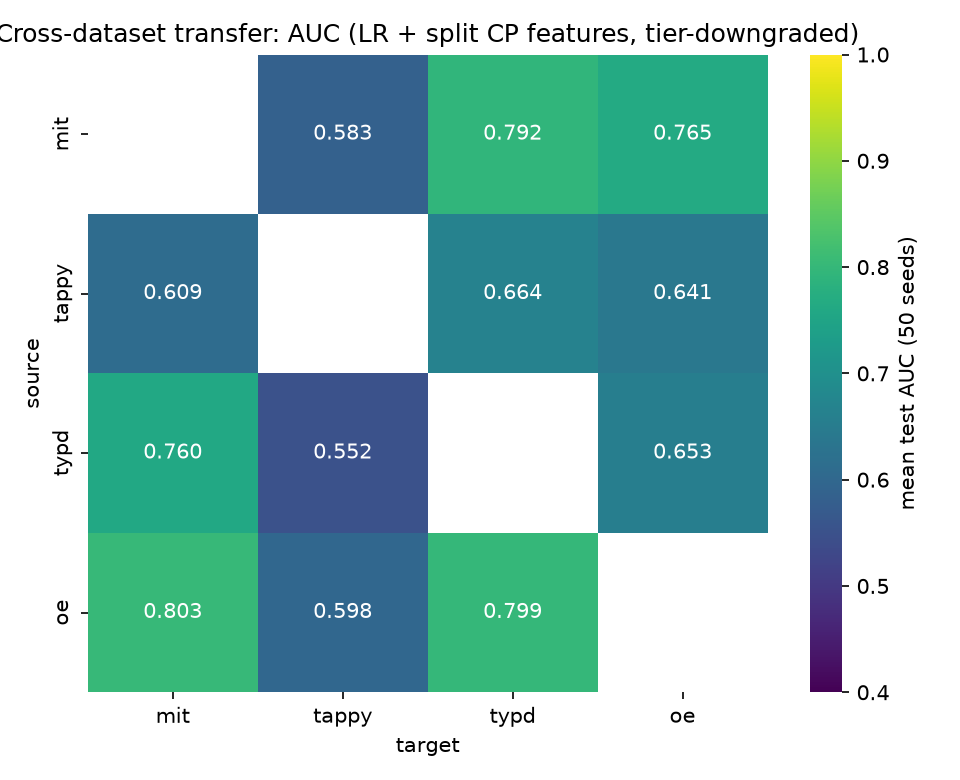
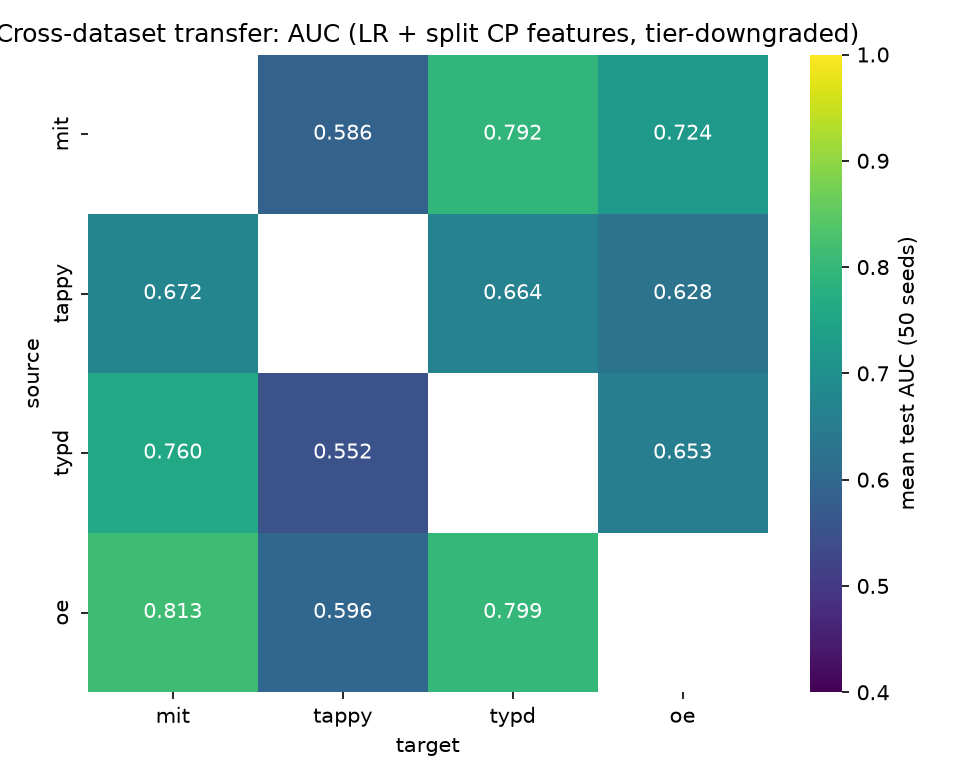
feat: L2/L3 rebuild on S1-S6 final pool (FEATURE-DEF-2) + mapping v1.0.1 keysym aliases + L3 both-hands fix; matrix L2/L3 directions updated, tappy2mit primary updated (0.5976, verdict unchanged), all registrations synced (18/18 tests)

diff --git a/src/features/build_features.py b/src/features/build_features.py
@@ -1,7 +1,7 @@
 #!/usr/bin/env python
 """build_features.py — L2/L3 手别条件特征构建器（TODO-4.1 前置，FEATURE-DEF-1）
 
-依据：configs/key_hand_mapping.yaml v1.0.0（已冻结）+ configs/feature_tiers.yaml
+依据：configs/key_hand_mapping.yaml v1.0.1（已冻结）+ configs/feature_tiers.yaml
 FEATURE-DEF-1（结果产出前登记的列定义）。
 
 产出：data/processed/subjects_l2l3.csv —— subject_id 主键的增量特征表，仅含
@@ -23,12 +23,14 @@ sys.path.insert(0, str(Path(__file__).resolve().parents[1]))
 
 PROCESSED = Path("data/processed")
 INTERIM = Path("data/interim")
-EVENTS = {"mit": "mit_digraph.parquet", "oe": "oe_events.parquet"}
+# 事件基（FEATURE-DEF-2，2026-09-26 用户批准）：S1-S6 清洗终池（build_tables 导出），
+# 与 L1 及 tappy L2（subjects.csv 内置）同事件基——修复复发猎杀 B/MEDIUM-2 的口径缺口
+EVENTS = {"mit": "final_digraphs.parquet", "oe": "final_digraphs.parquet"}
 
 
-def load_mapping() -> tuple[dict[str, str], set[str], dict[str, str]]:
+def load_mapping() -> tuple[dict[str, str], set[str], dict[str, str], dict[str, str]]:
     cfg = yaml.safe_load((Path(__file__).resolve().parents[2] / "configs" / "key_hand_mapping.yaml").read_text(encoding="utf-8"))
-    assert cfg["version"] == "1.0.0", "映射表版本与冻结版不符"
+    assert cfg["version"] == "1.0.1", "映射表版本与冻结版不符"
     hand: dict[str, str] = {}
     for h, fingers in cfg["hand_zones"].items():
         for _finger, keys in fingers.items():
@@ -36,16 +38,20 @@ def load_mapping() -> tuple[dict[str, str], set[str], dict[str, str]]:
                 hand[k.lower()] = h
     unassigned = {u.lower() for u in cfg["unassigned"]}
     shifted = {k.lower(): v.lower() for k, v in cfg["shifted_base_map"].items()}
-    return hand, unassigned, shifted
+    aliases = {k.lower(): v.lower() for k, v in cfg["aliases"].items()}
+    return hand, unassigned, shifted, aliases
 
 
-def key_to_hand(k: str, hand: dict[str, str], unassigned: set[str], shifted: dict[str, str]) -> str:
-    """匹配优先级：unassigned 精确/shift 前缀 > shifted 基准键 > zones 精确 > NA。"""
+def key_to_hand(k: str, hand: dict[str, str], unassigned: set[str], shifted: dict[str, str],
+               aliases: dict[str, str] | None = None) -> str:
+    """匹配优先级：unassigned 精确/shift 前缀 > aliases 归一化 > shifted 基准键 > zones 精确 > NA。"""
     k = str(k).strip().lower()
     if not k:
         return "NA"
     if k in unassigned or any(k == p or k.startswith(p) for p in ("shift", "control", "alt", "mouse")):
         return "UNASSIGNED"
+    if aliases:
+        k = aliases.get(k, k)  # v1.0.1：X11 keysym 归一化
     if k in hand:
         return hand[k]
     if k in shifted and shifted[k] in hand:
@@ -53,13 +59,13 @@ def key_to_hand(k: str, hand: dict[str, str], unassigned: set[str], shifted: dic
     return "NA"
 
 
-def build_dataset(ds: str, hand, unassigned, shifted) -> tuple[pd.DataFrame, dict]:
-    ev = pd.read_parquet(INTERIM / EVENTS[ds])
-    ev = ev[ev["keep_flag"]].copy()
-    qc: dict = {"dataset": ds, "n_events_kept": len(ev)}
+def build_dataset(ds: str, hand, unassigned, shifted, aliases) -> tuple[pd.DataFrame, dict]:
+    ev = pd.read_parquet(INTERIM / "final_digraphs.parquet")
+    ev = ev[ev["dataset"] == ds].copy()
+    qc: dict = {"dataset": ds, "n_events_final_pool": len(ev)}
 
     # hand 归属（按落键 char_to）；L2 只用 L/R（unassigned/unmatched 剔除并计数）
-    ev["hand"] = ev["char_to"].map(lambda k: key_to_hand(k, hand, unassigned, shifted))
+    ev["hand"] = ev["char_to"].map(lambda k: key_to_hand(k, hand, unassigned, shifted, aliases))
     qc["excluded_unassigned"] = int((ev["hand"] == "UNASSIGNED").sum())
     qc["excluded_unmatched"] = int((ev["hand"] == "NA").sum())
     ev_lr = ev[ev["hand"].isin(["L", "R"])]
@@ -74,10 +80,11 @@ def build_dataset(ds: str, hand, unassigned, shifted) -> tuple[pd.DataFrame, dic
         for h in ("L", "R"):
             out[f"L2_{ds}_{sig}_{h}_mean"] = out["subject"].map(g[col].unstack("hand").get(h))
 
-    # L3：digraph 手别转移（char_from 与 char_to 双方可映射；否则剔除并计数）
+    # L3：digraph 手别转移——char_from 与 char_to 双方可映射（FEATURE-DEF-1 登记定义；
+    # 修复复发猎杀 B/HIGH-1：此前只查 char_from，char_to=空格/退格的二连对被误判 cross）
     ev2 = ev[ev["char_from"].notna()].copy()
-    ev2["hand_from_map"] = ev2["char_from"].map(lambda k: key_to_hand(k, hand, unassigned, shifted))
-    both = ev2[ev2["hand_from_map"].isin(["L", "R"])].copy()
+    ev2["hand_from_map"] = ev2["char_from"].map(lambda k: key_to_hand(k, hand, unassigned, shifted, aliases))
+    both = ev2[ev2["hand_from_map"].isin(["L", "R"]) & ev2["hand"].isin(["L", "R"])].copy()
     qc["n_digraphs_both_mapped"] = int(len(both))
     qc["excluded_unmatched_digraphs"] = int(len(ev2) - len(both))
     both["trans"] = np.where(both["hand_from_map"] == both["hand"], "same", "cross")
@@ -93,10 +100,10 @@ def build_dataset(ds: str, hand, unassigned, shifted) -> tuple[pd.DataFrame, dic
 
 
 def main() -> None:
-    hand, unassigned, shifted = load_mapping()
+    hand, unassigned, shifted, aliases = load_mapping()
     frames, qcs = [], []
     for ds in ("mit", "oe"):
-        f, qc = build_dataset(ds, hand, unassigned, shifted)
+        f, qc = build_dataset(ds, hand, unassigned, shifted, aliases)
         frames.append(f)
         qcs.append(qc)
         print(f"[build_features] {ds}: {len(f)} 人；剔除 unassigned={qc['excluded_unassigned']} "

diff --git a/src/features/build_tables.py b/src/features/build_tables.py
@@ -256,6 +256,13 @@ def main() -> None:
         sess_all.append(sess_stat)
         raw_subjects[dataset] = subj_set
 
+    # FEATURE-DEF-2：导出 S1-S6 清洗终池事件表（L2/L3 特征的冻结事件基，2026-09-26 用户批准）
+    final_pool = pd.concat(
+        [f.assign(subject=f["subject"].astype(str)) for f in finals.values()],
+        ignore_index=True)
+    INTERIM.mkdir(parents=True, exist_ok=True)
+    final_pool.to_parquet(INTERIM / "final_digraphs.parquet", index=False)
+
     # ⑦ 队列定义（标签在此才介入）
     labels = load_labels()
     subj_rows = []

diff --git a/TODO_0925.md b/TODO_0925.md
@@ -563,9 +563,14 @@ Phase 6 投稿与归档（W11–W12）       [ ]
   且覆盖与 AUC 明显不同步（typd→tappy AUC 0.55/覆盖 0.58 vs mit→typd AUC 0.79/覆盖 0.91；
   LGBM 覆盖 11/12 方向高于 LR（唯一例外 typd2mit）尽管 AUC 更低）——H1 解耦假设的
   第一批实证素材
-- 偏差/降级决策：①gate 偏离处置如上（用户批准）；②已知披露项：L2/L3 事件基为 keep_flag
-  池（含被 S4/S5 剔除 session 的事件），与 L1 的清洗终集口径不同——subjects_l2l3.csv 含
-  42 个未终选受试者（不入矩阵），论文附录披露
+- 偏差/降级决策：①gate 偏离处置如上（用户批准）；②【2026-09-26 修复轮更新】L2/L3 特征
+  按 FEATURE-DEF-2（事件基→S1-S6 终池）+ 映射表 v1.0.1（keysym 别名）+ L3 双手检查修复
+  重建，L2/L3 方向矩阵数字更新：mit2oe AUC 0.7650→0.7239、oe2mit 0.8030→0.8131、
+  tappy2mit 0.6088→0.6723（覆盖 0.6261→0.6688）、tappy2oe 0.6406→0.6278、
+  oe2tappy 0.5979→0.5955、mit2tappy 0.5830（不变）；L1 五方向逐位不变；
+  subjects_l2l3.csv 重建为 275 行=恰为冻结队列（42 个非冻结者移除，原披露项随之消失）；
+  ③已知披露项（更新）：L2/L3 事件基=L1 同款 S1-S6 终池（原 keep 池口径缺口已按
+  FEATURE-DEF-2 关闭），论文附录仍披露 L2/L3 与 L1 特征的构建来源差异
 ```
 
 ### TODO-4.2 主终点 family 覆盖判定（3 方向，Holm）`[x]` ✓ 2026-09-26 19:42（时间=补记录 commit 时刻；结果 commit 1441010 @ 19:35）
@@ -597,7 +602,13 @@ Phase 6 投稿与归档（W11–W12）       [ ]
 - 结论：预注册主终点产出——**split conformal 覆盖在跨库部署偏移下于全部三个 primary
   方向家族受控地显著低于 0.90 名义水平**（三分类全 Incompatible；结果无条件声明：
   此为有效科学结果，非"失败"叙事）——主战场核心证据落地
-- 偏差/降级决策：无（唯一 gate = 主结论产出，达成）
+- 偏差/降级决策：无（唯一 gate = 主结论产出，达成）。
+  【2026-09-26 修复轮数字勘误增补（FEATURE-DEF-2 + 映射表 v1.0.1 重建后）】：
+  tappy2mit 更新为 K=49/82 cov=0.5976 CI[0.4834,0.7044] q=1.2e-12（L2 特征换基所致；
+  判定不变仍 Incompatible）；mit2tappy K=147/173 cov=0.8497（逐位不变——mit 源 L2 均值
+  变化未翻转任何 tappy 受试者覆盖判定）；gold_merged2self（L1）逐位不变 0.7322；
+  三方向判定结论不变仍全部 Incompatible（家族受控）。原记录中 tappy2mit 行
+  （K=48/82 cov=0.5854）为重建前数值，以本勘误为准
 ```
 
 ### TODO-4.3 PD/HC 类条件覆盖（安全性诊断终点）`[ ]`
